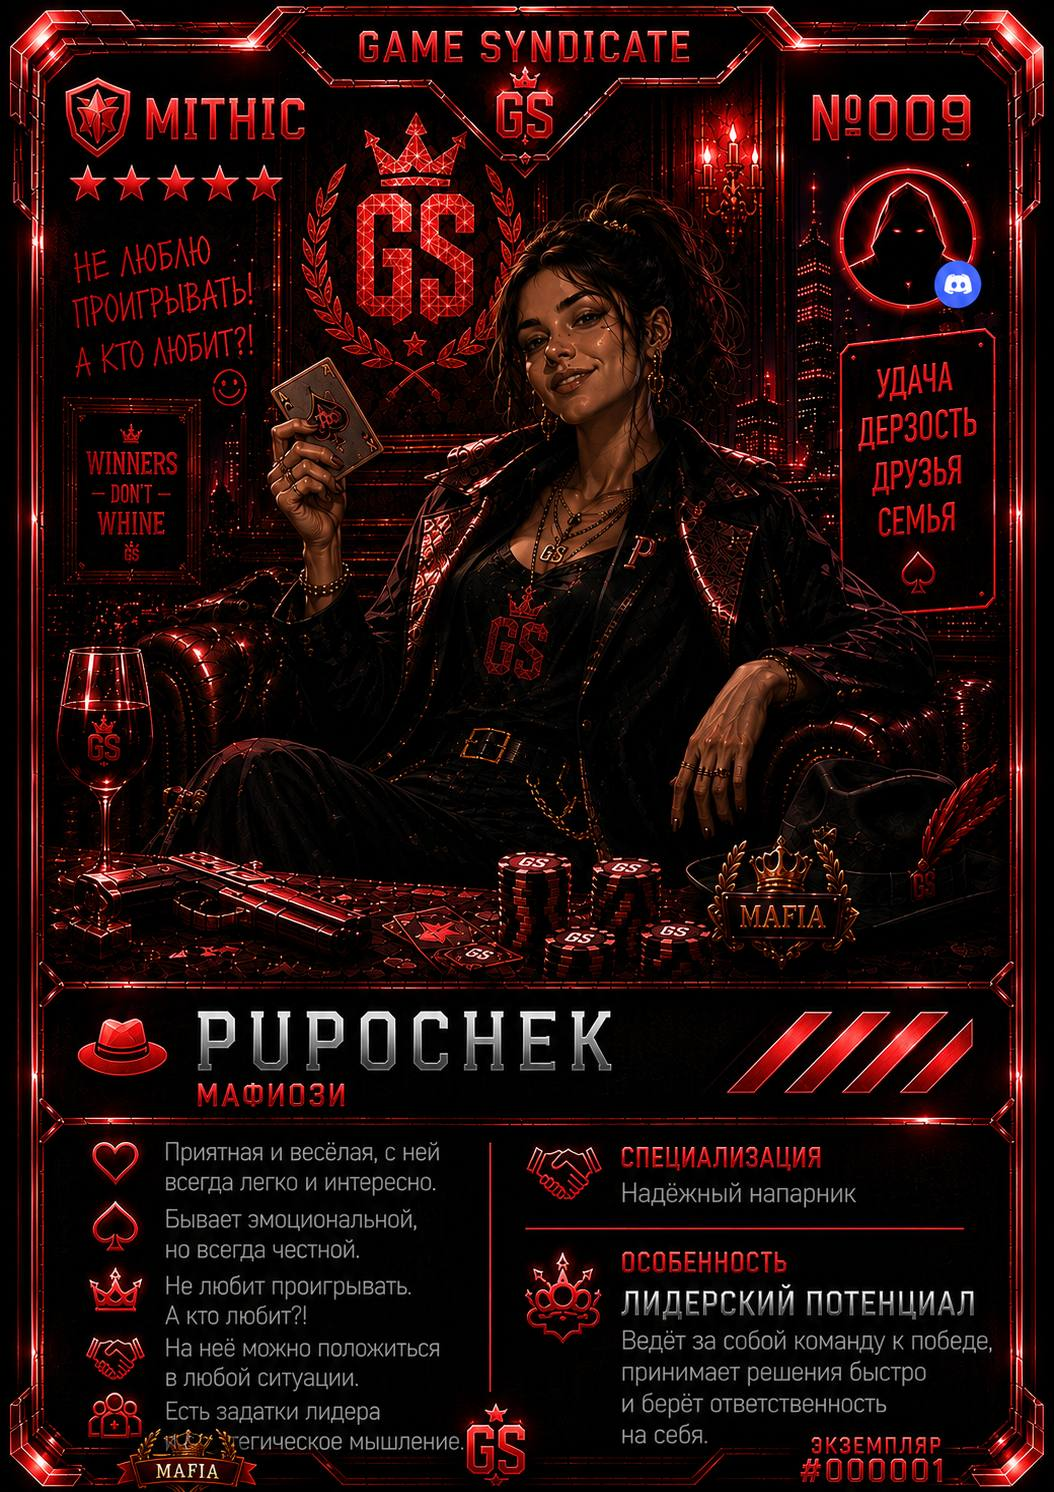
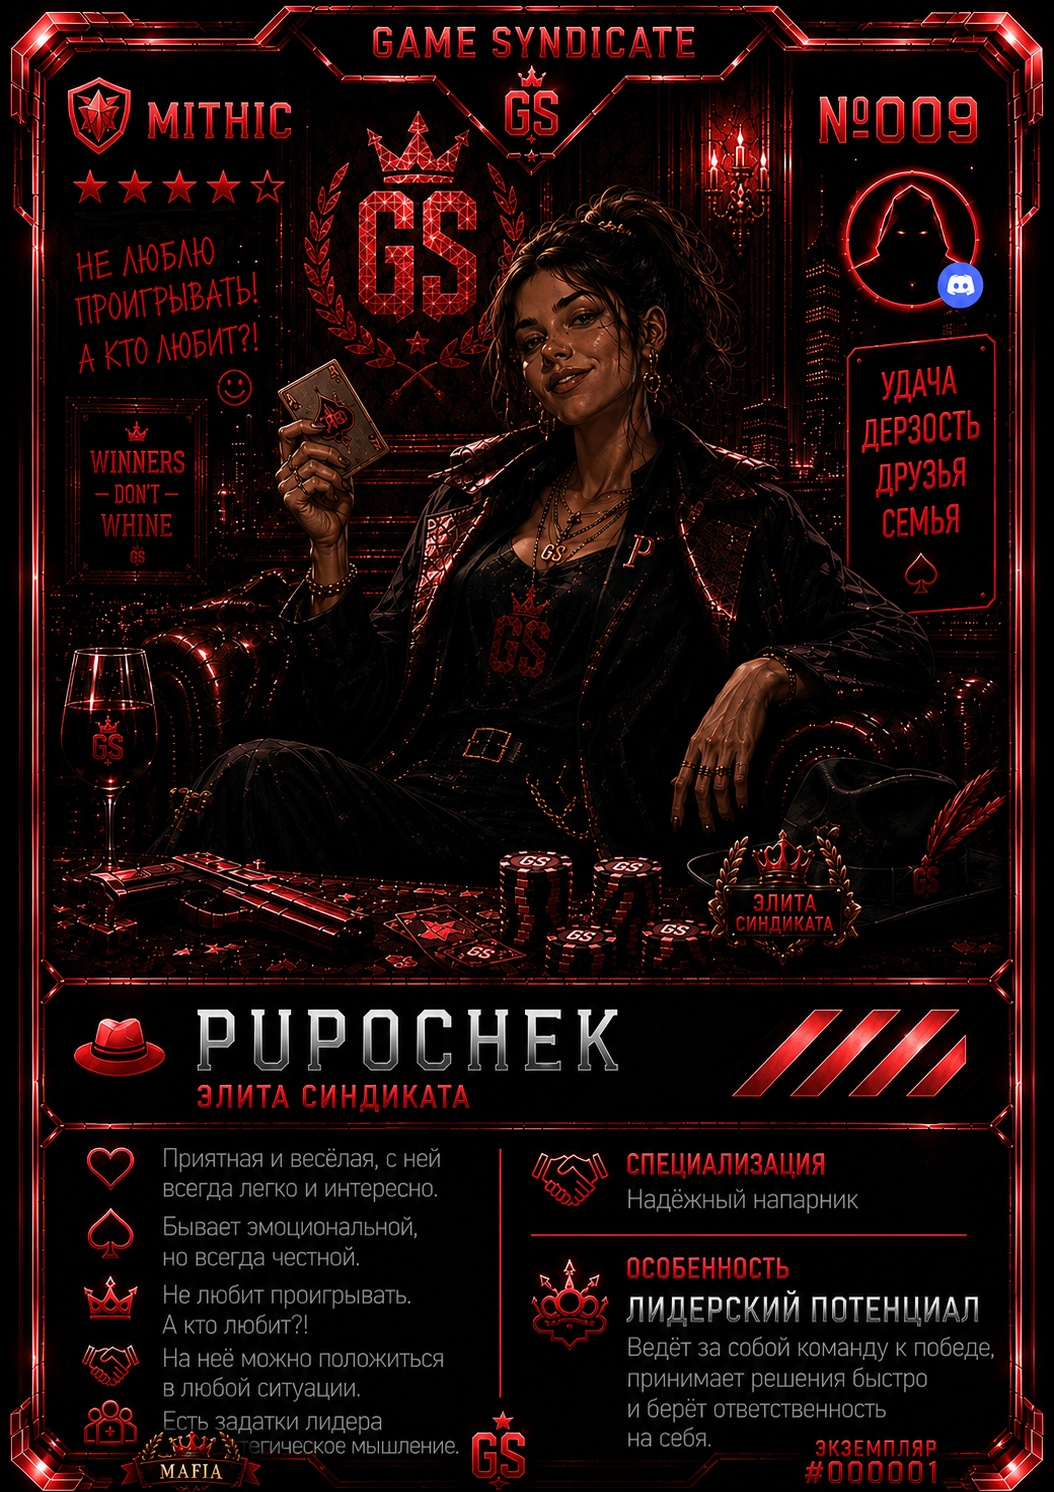
agsgdsagdsagsdgv

Changed region(s): [[0.0, 0.0, 1.0, 1.0], [0.425, 0.4933, 0.4858, 0.5241], [0.759, 0.4933, 0.7894, 0.5241]]

diff --git a/services/baseCards9197Grant.js b/services/baseCards9197Grant.js
@@ -1,0 +1,75 @@
+'use strict';
+
+const { db } = require('../database/db');
+
+const MIGRATION_KEY = 'v20.3.0-base-cards-091-097-grant-561961056197672991';
+const TARGET_USER_ID = '561961056197672991';
+const CARD_IDS = Object.freeze([91, 92, 93, 94, 95, 96, 97]);
+const RARITIES = Object.freeze(['common', 'rare', 'epic', 'legendary', 'mythic']);
+
+function applyBaseCards9197Grant() {
+    db.exec(`
+        CREATE TABLE IF NOT EXISTS gs_one_time_migrations (
+            migration_key TEXT PRIMARY KEY,
+            applied_at TEXT NOT NULL DEFAULT CURRENT_TIMESTAMP
+        )
+    `);
+
+    if (db.prepare(`
+        SELECT 1 FROM gs_one_time_migrations WHERE migration_key = ?
+    `).get(MIGRATION_KEY)) {
+        return { applied: false, granted: 0, alreadyOwned: 35 };
+    }
+
+    const hasVariant = db.prepare(`
+        SELECT 1
+        FROM player_cards
+        WHERE user_id = ? AND card_id = ? AND rarity = ?
+        LIMIT 1
+    `);
+
+    const nextCopy = db.prepare(`
+        SELECT COALESCE(MAX(copy_number), 0) + 1 AS value
+        FROM player_cards
+        WHERE card_id = ? AND rarity = ? AND edition = 'standard'
+    `);
+
+    const insertCard = db.prepare(`
+        INSERT INTO player_cards (
+            user_id, card_id, rarity, edition, copy_number, obtained_from
+        ) VALUES (?, ?, ?, 'standard', ?, 'base_091_097_collection_preservation')
+    `);
+
+    const result = db.transaction(() => {
+        let granted = 0;
+        let alreadyOwned = 0;
+
+        for (const cardId of CARD_IDS) {
+            for (const rarity of RARITIES) {
+                if (hasVariant.get(TARGET_USER_ID, cardId, rarity)) {
+                    alreadyOwned++;
+                    continue;
+                }
+
+                const copyNumber = Number(nextCopy.get(cardId, rarity)?.value || 1);
+                insertCard.run(TARGET_USER_ID, cardId, rarity, copyNumber);
+                granted++;
+            }
+        }
+
+        db.prepare(`
+            INSERT INTO gs_one_time_migrations(migration_key) VALUES (?)
+        `).run(MIGRATION_KEY);
+
+        return { granted, alreadyOwned };
+    })();
+
+    console.log(
+        `[Base Cards 091-097] user=${TARGET_USER_ID}, ` +
+        `granted=${result.granted}, alreadyOwned=${result.alreadyOwned}`
+    );
+
+    return { applied: true, ...result };
+}
+
+module.exports = { applyBaseCards9197Grant };

diff --git a/index.js b/index.js
@@ -147,6 +147,17 @@ client.once('clientReady', () => {
         console.error('[V19.6.2 Extra Recovery] Ошибка:', error);
     }
 
+    // V20.3.0 — добавление базовых карточек №091–097 и безопасная
+    // одноразовая выдача всех 35 вариантов владельцу полной коллекции.
+    // Выполняется до аудита карточных достижений, чтобы ранее собранные
+    // Common/Rare/Epic/Legendary/Mythic коллекции не стали неполными.
+    try {
+        const { applyBaseCards9197Grant } = require('./services/baseCards9197Grant');
+        applyBaseCards9197Grant();
+    } catch (error) {
+        console.error('[Base Cards 091-097 Grant] Ошибка:', error);
+    }
+
     // Repeat the safe check every minute. This covers expeditions that finish
     // while the bot is already running and survives missed UI refreshes.
     setInterval(() => {

diff --git a/PATCH_NOTES_V20.3.0_BASE_CARDS_091_097.md b/PATCH_NOTES_V20.3.0_BASE_CARDS_091_097.md
@@ -1,0 +1,9 @@
+# V20.3.0 — Base Cards 091–097
+
+- Добавлены 7 участников × 5 редкостей = 35 вариантов: №091–097.
+- Карточки автоматически участвуют в Base, Premium и Elite Pack через общий каталог.
+- Они отображаются в альбоме и входят в достижения полных Common/Rare/Epic/Legendary/Mythic коллекций.
+- Обновлены изображения №009 Pupochek и №010 CreeLess без изменения ID и прогресса.
+- Игроку 561961056197672991 один раз безопасно выдаются отсутствующие варианты №091–097.
+- Выдача идемпотентна: существующие варианты не дублируются.
+- Миграция выполняется до аудита коллекционных достижений, поэтому полные коллекции и уже полученные достижения сохраняются.
